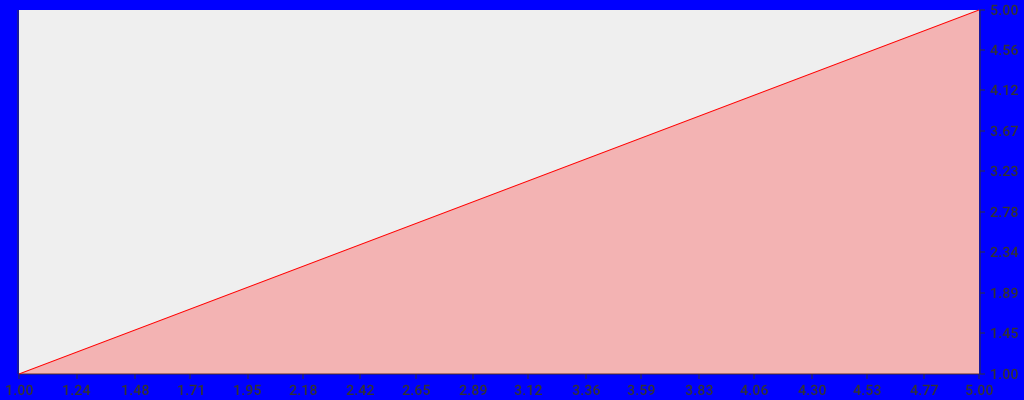
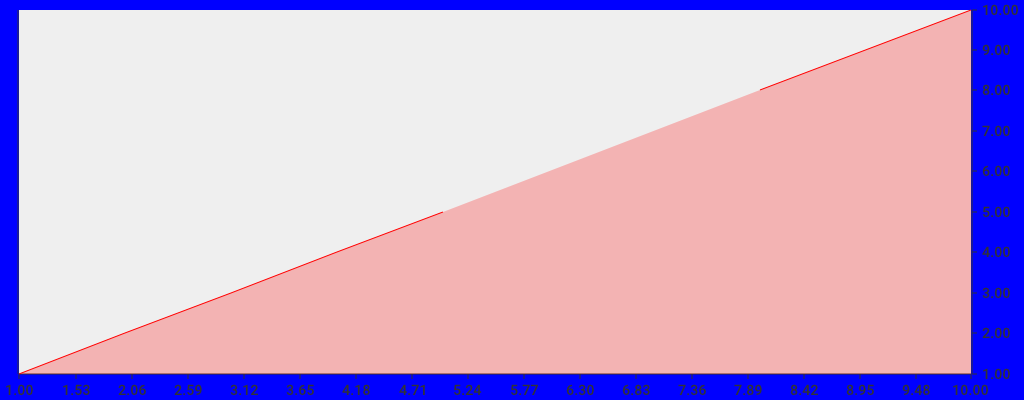
feature; solving issue #121
There is now a way to allow gaps in charts due to missing
measurements. A style setting (StrokeMaxSpanGap) determines
whether a gap is stroked or not.

An example is included in examples/custom_styles.

diff --git a/style.go b/style.go
@@ -51,6 +51,7 @@ type Style struct {
 	StrokeWidth     float64
 	StrokeColor     drawing.Color
 	StrokeDashArray []float64
+        StrokeMaxSpanGap float64 // in xvalue unit, nano second for timeseries
 
 	DotColor drawing.Color
 	DotWidth float64
@@ -120,6 +121,12 @@ func (s Style) String() string {
 		output = append(output, fmt.Sprintf("\"stroke_color\": %s", s.StrokeColor.String()))
 	} else {
 		output = append(output, "\"stroke_color\": null")
+	}
+
+        if s.StrokeMaxSpanGap >= 0 {
+		output = append(output, fmt.Sprintf("\"stroke_maxspangap\": %.02f", s.StrokeMaxSpanGap))
+	} else {
+		output = append(output, "\"stroke_maxspangap\": null")
 	}
 
 	if len(s.StrokeDashArray) > 0 {
@@ -192,6 +199,11 @@ func (s Style) GetStrokeColor(defaults ...drawing.Color) drawing.Color {
 		return drawing.ColorTransparent
 	}
 	return s.StrokeColor
+}
+
+// GetStrokeMaxSpanGap returns the max span gap, smaller or equal gaps are connected, larger ones are not.
+func (s Style) GetStrokeMaxSpanGap() float64 {
+	return s.StrokeMaxSpanGap
 }
 
 // GetFillColor returns the fill color.
@@ -388,6 +400,7 @@ func (s Style) InheritFrom(defaults Style) (final Style) {
 	final.StrokeColor = s.GetStrokeColor(defaults.StrokeColor)
 	final.StrokeWidth = s.GetStrokeWidth(defaults.StrokeWidth)
 	final.StrokeDashArray = s.GetStrokeDashArray(defaults.StrokeDashArray)
+	final.StrokeMaxSpanGap = s.GetStrokeMaxSpanGap()
 
 	final.DotColor = s.GetDotColor(defaults.DotColor)
 	final.DotWidth = s.GetDotWidth(defaults.DotWidth)
@@ -416,6 +429,7 @@ func (s Style) GetStrokeOptions() Style {
 		StrokeDashArray: s.StrokeDashArray,
 		StrokeColor:     s.StrokeColor,
 		StrokeWidth:     s.StrokeWidth,
+	        StrokeMaxSpanGap:s.StrokeMaxSpanGap,
 	}
 }
 
@@ -443,7 +457,8 @@ func (s Style) GetFillAndStrokeOptions() Style {
 	return Style{
 		ClassName:       s.ClassName,
 		StrokeDashArray: s.StrokeDashArray,
-		FillColor:       s.FillColor,
+	        StrokeMaxSpanGap:s.StrokeMaxSpanGap,
+	        FillColor:       s.FillColor,
 		StrokeColor:     s.StrokeColor,
 		StrokeWidth:     s.StrokeWidth,
 	}

diff --git a/draw.go b/draw.go
@@ -47,12 +47,26 @@ func (d draw) LineSeries(r Renderer, canvasBox Box, xrange, yrange Range, style 
 	if style.ShouldDrawStroke() {
 		style.GetStrokeOptions().WriteDrawingOptionsToRenderer(r)
 
+                vxprev := 0.0
+                if vs.Len() > 0 {
+  	                vxprev, _ = vs.GetValues( 1 ) // make sure vxprev starts at the beginning
+	        }
+	        maxspan := style.GetStrokeMaxSpanGap()
 		r.MoveTo(x0, y0)
 		for i := 1; i < vs.Len(); i++ {
 			vx, vy = vs.GetValues(i)
 			x = cl + xrange.Translate(vx)
-			y = cb - yrange.Translate(vy)
-			r.LineTo(x, y)
+		        y = cb - yrange.Translate(vy)
+		        df := vxprev - vx
+		        if df < 0 {
+			  df *= -1 // make it work, regardless of direction ox X-axis
+			}
+                        if df <= maxspan { // span the gap i.e. connect the two points
+  			  r.LineTo(x, y)
+                        } else {           // do not span the gap
+  			  r.MoveTo(x, y)
+                        }
+                        vxprev = vx
 		}
 		r.Stroke()
 	}

diff --git a/examples/custom_styles/main.go b/examples/custom_styles/main.go
@@ -25,9 +25,10 @@ func main() {
 				Style: chart.Style{
 					StrokeColor: drawing.ColorRed,               // will supercede defaults
 					FillColor:   drawing.ColorRed.WithAlpha(64), // will supercede defaults
+                                        StrokeMaxSpanGap: 2, // do not span gaps more than 2.0 wide
 				},
-				XValues: []float64{1.0, 2.0, 3.0, 4.0, 5.0},
-				YValues: []float64{1.0, 2.0, 3.0, 4.0, 5.0},
+				XValues: []float64{1.0, 2.0, 3.0, 4.0, 5.0, 8.0, 10.0},
+				YValues: []float64{1.0, 2.0, 3.0, 4.0, 5.0, 8.0, 10.0},
 			},
 		},
 	}
